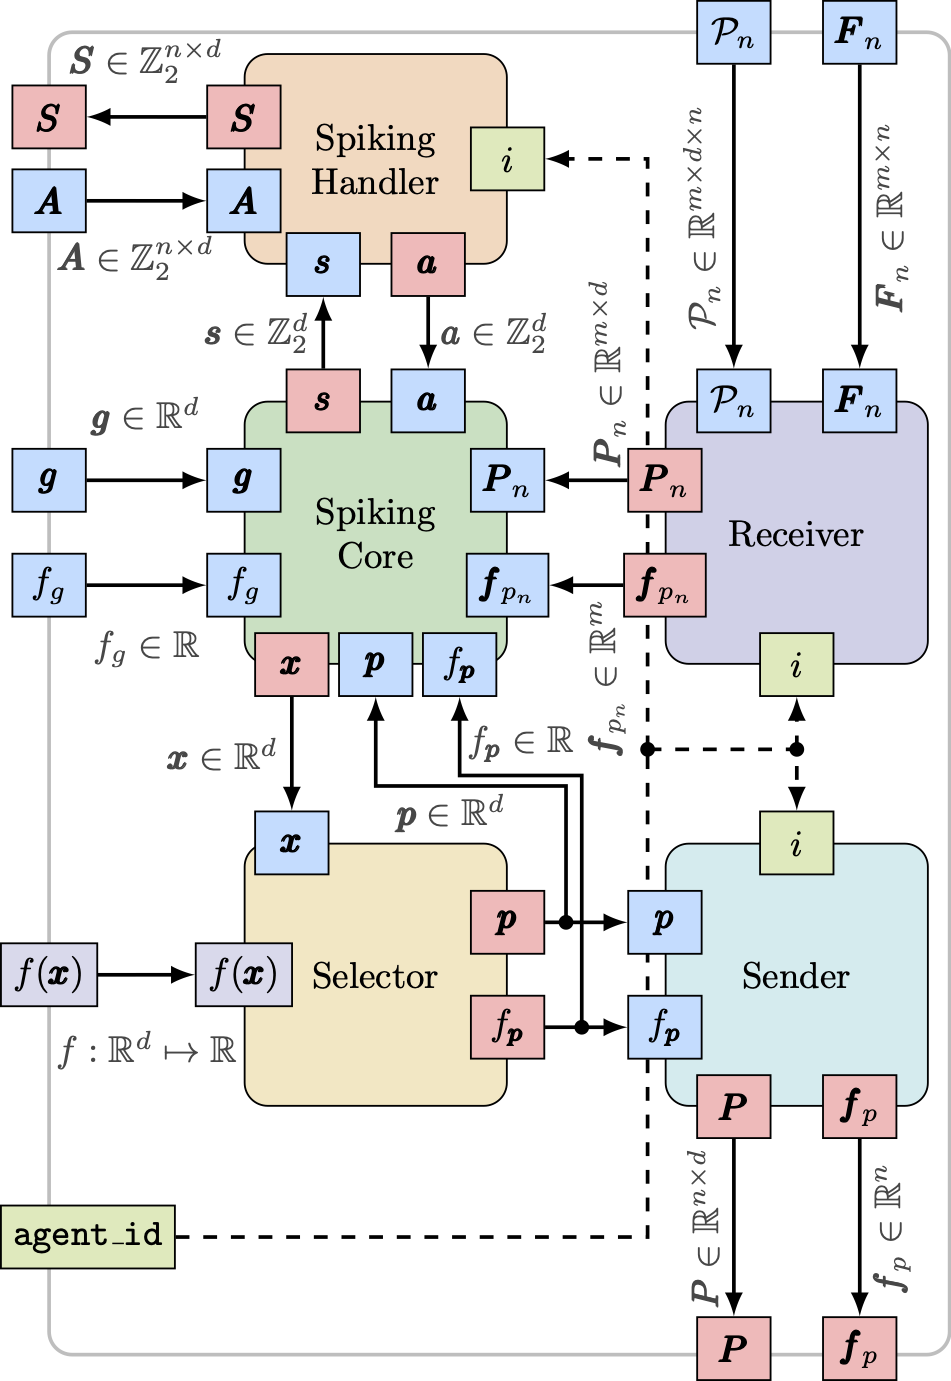
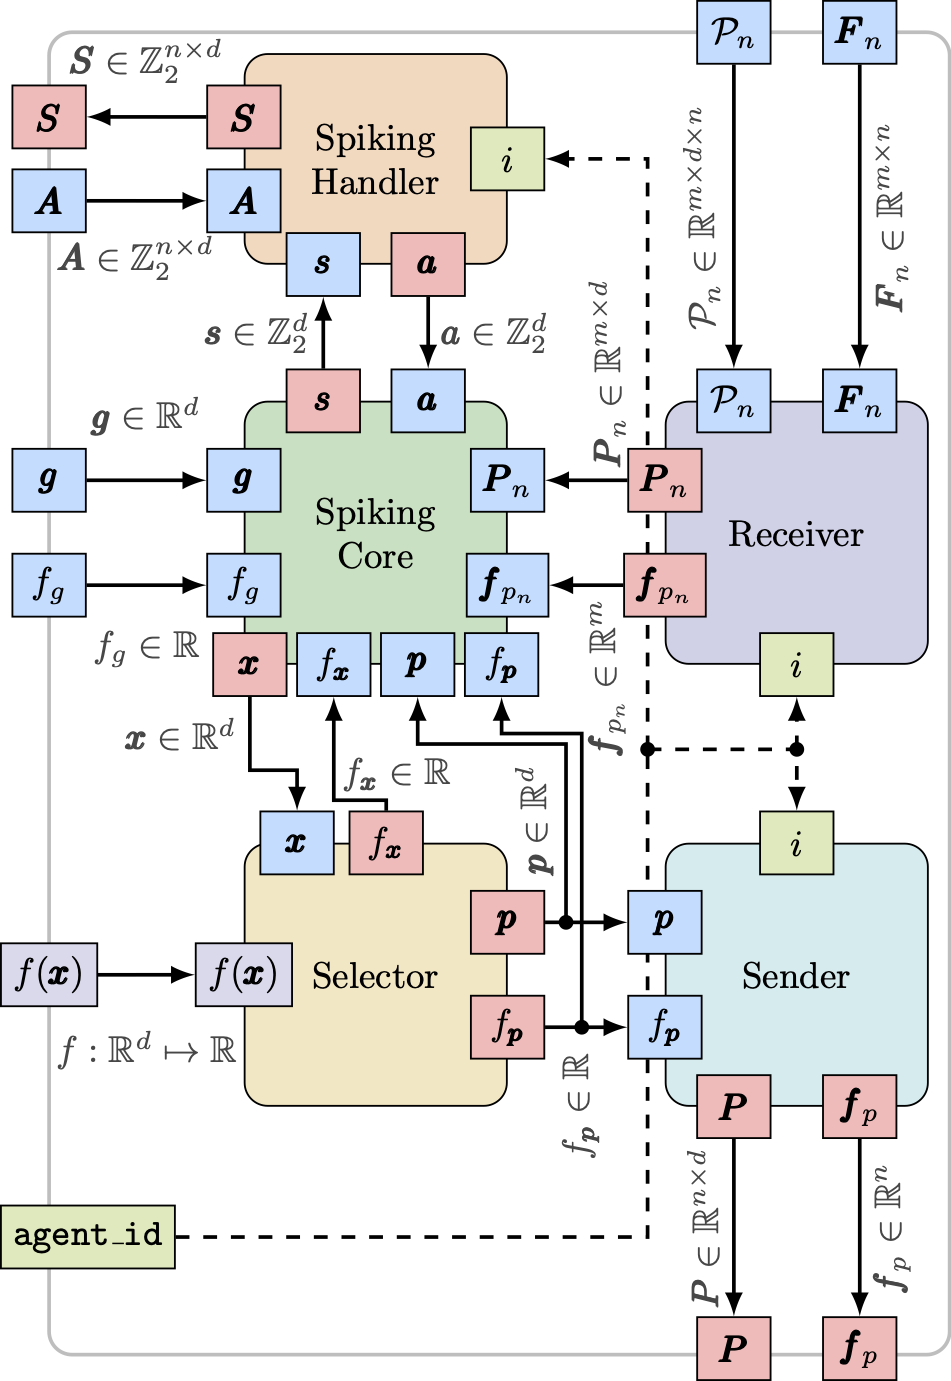
Ready to merge - new schemes from the added connection

Changed region(s): [[0.122, 0.4359, 0.6404, 0.6539], [0.5794, 0.7473, 0.6099, 0.8096], [0.6099, 0.8096, 0.6404, 0.8407]]

diff --git a/src/neuroptimiser/core/models.py b/src/neuroptimiser/core/models.py
@@ -119,7 +119,6 @@ HS_DEFAULT_PARAMS = {
         "w": 0.67,                    # inertia-like term
         "jitter_scale": 0.0,          # add small noise after selecting point
     },
-    # //////////////////////// WORK IN PROGRESS /////////////////////////
     "cma": {
         "sigma_init": 0.3,     # initial global step-size
         "eta_m": 0.25,         # mean drift rate towards guidance
@@ -134,7 +133,6 @@ HS_DEFAULT_PARAMS = {
         # "forget_rate": 0.1,    # slight forgetting on failure
         "jitter_scale": 0.0    # optional tiny Gaussian noise on output
     },
-    # //////////////////////// WORK IN PROGRESS /////////////////////////
 }
 
 @implements(proc=TwoDimSpikingCore, protocol=LoihiProtocol)
@@ -177,7 +175,7 @@ class PyTwoDimSpikingCoreModel(AbstractPerturbationNHeuristicModel):
                     - ``spk_alpha``: float, scaling factor for the spiking condition
                     - ``spk_q_ord``: int, order of the norm for the spiking condition (default: 2)
                     - ``spk_weights``: list of float, weights for the spiking condition components (default: [0.5, 0.5])
-                    - ``hs_operator``: str, heuristic search operator (i.e., "fixed", "random", "directional", "differential")
+                    - ``hs_operator``: str, heuristic search operator (i.e., "fixed", "random", "directional", "differential", "cma")
                     - ``hs_variant``: str, variant of the heuristic search operator. The available variants when
                         - ``hs_operator``="fixed" are "gbest", "center", "pgbest", "pbest"|"fixed" (default).
                         - ``hs_operator``="random" are "uniform" and "normal" (default).
@@ -602,7 +600,8 @@ class PyTwoDimSpikingCoreModel(AbstractPerturbationNHeuristicModel):
         return new_var
 
     def _hs_cma(self, dim, var):
-        # Ensure initialisation of CMA-ES parameters
+        """CMA-ES lite heuristic search operator (CMA-ES inspired).
+        """
         if not self._cma_initialised[dim]:
             self._cma_m[dim]        = np.array([var[0], var[1]], dtype=float)
             self._cma_C[dim]        = np.eye(2, dtype=float)
